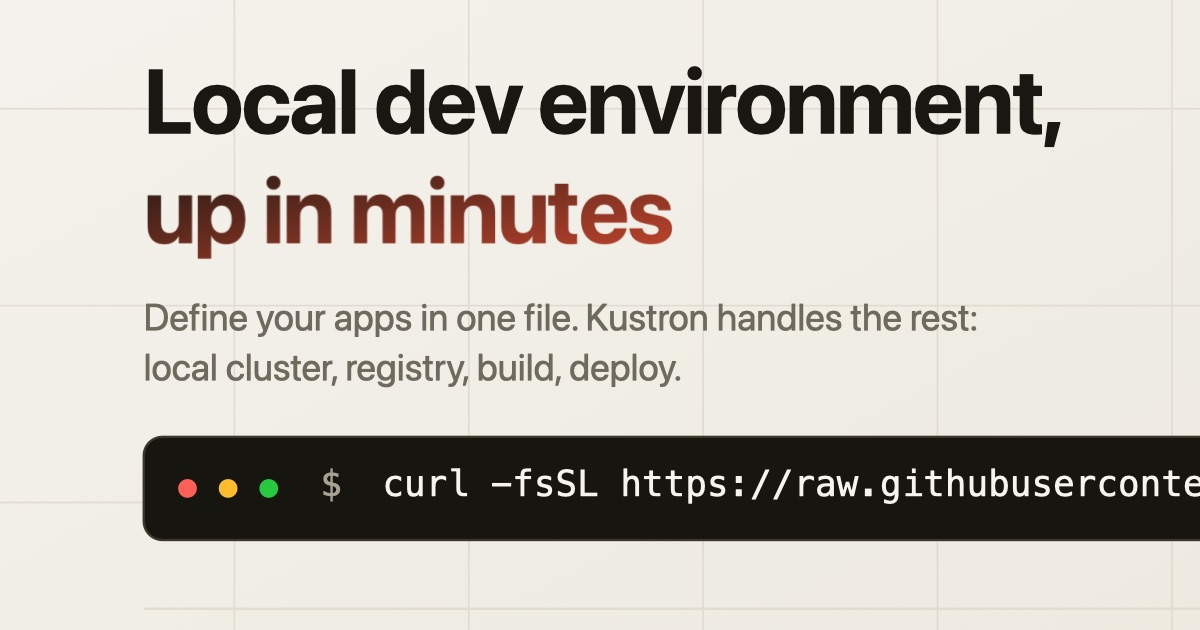
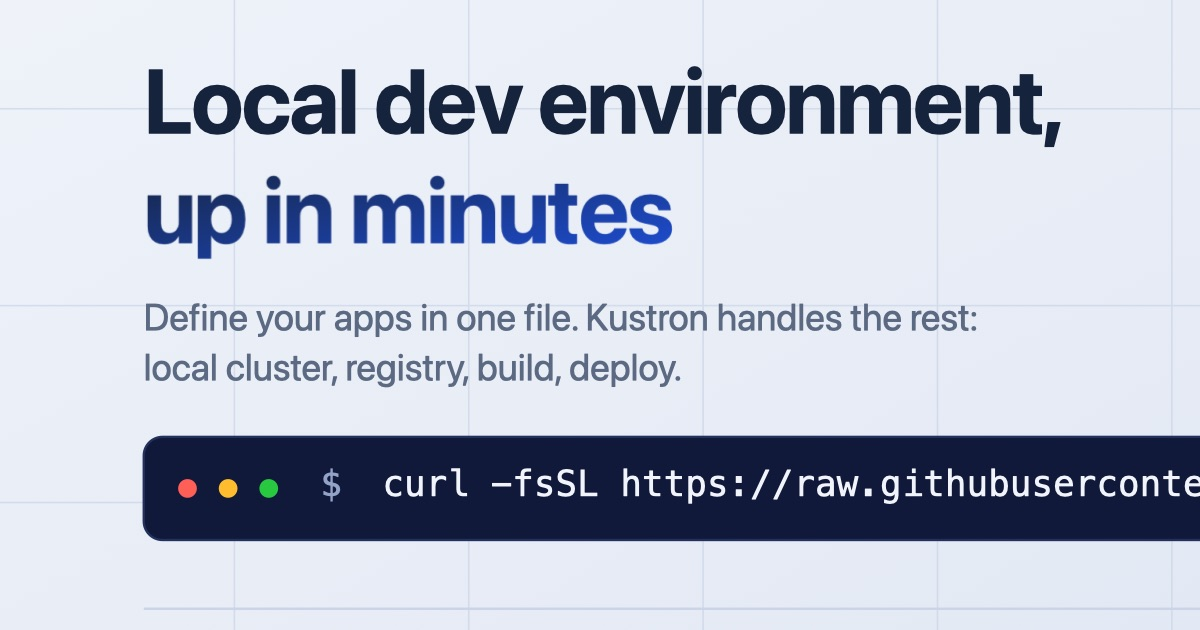
feat: blueprint-navy theme with grid texture

diff --git a/docs/index.html b/docs/index.html
@@ -19,7 +19,7 @@
   <link rel="canonical" href="https://itsmunim.github.io/kustron/">
   <meta name="description"
     content="Define your apps in one file. Kustron spins up a local Kubernetes cluster, builds, and deploys them. No Kubernetes knowledge required.">
-  <meta name="theme-color" content="#F6F4EF">
+  <meta name="theme-color" content="#F1F4FA">
 
   <!-- Open Graph (Facebook, LinkedIn, Discord, iMessage) -->
   <meta property="og:type" content="website">
@@ -81,15 +81,16 @@
     }
 
     :root {
-      --bg: #f6f4ef;
+      --bg: #f1f4fa;
       --surface: #ffffff;
-      --surface2: #ece9e0;
-      --border: #e0dcd0;
-      --text: #1a1712;
-      --muted: #6f6a5e;
-      --accent: #c7452e;
-      --accent-dim: rgba(199, 69, 46, .08);
+      --surface2: #e5eaf3;
+      --border: #c9d4e6;
+      --text: #16233c;
+      --muted: #5b6a82;
+      --accent: #1d4ed8;
+      --accent-dim: rgba(29, 78, 216, .08);
       --green: #2e7d4f;
+      --amber: #a97f1f;
       --radius: 10px;
     }
 
@@ -98,7 +99,11 @@
     }
 
     body {
-      background: var(--bg);
+      background-color: var(--bg);
+      background-image:
+        linear-gradient(to right, rgba(22, 35, 60, .028) 1px, transparent 1px),
+        linear-gradient(to bottom, rgba(22, 35, 60, .028) 1px, transparent 1px);
+      background-size: 28px 28px;
       color: var(--text);
       font-family: 'Inter', sans-serif;
       font-size: 16px;
@@ -120,7 +125,7 @@
       position: sticky;
       top: 0;
       z-index: 100;
-      background: rgba(246, 244, 239, .85);
+      background: rgba(241, 244, 250, .85);
       backdrop-filter: blur(12px);
       border-bottom: 1px solid var(--border);
       padding: 0 24px;
@@ -185,7 +190,7 @@
     }
 
     .btn-primary:hover {
-      background: #d95a40;
+      background: #1d4ed8;
       text-decoration: none;
     }
 
@@ -202,7 +207,7 @@
       align-items: center;
       gap: 6px;
       background: var(--accent-dim);
-      border: 1px solid rgba(199, 69, 46, .28);
+      border: 1px solid rgba(29, 78, 216, .28);
       border-radius: 100px;
       padding: 4px 12px;
       font-size: 13px;
@@ -216,7 +221,7 @@
       line-height: 1.1;
       letter-spacing: -2px;
       margin-bottom: 20px;
-      background: linear-gradient(135deg, #1a1712 30%, #c7452e);
+      background: linear-gradient(135deg, #16233c 30%, #1d4ed8);
       -webkit-background-clip: text;
       -webkit-text-fill-color: transparent;
       background-clip: text;
@@ -379,7 +384,7 @@
 
     /* ── YAML block ── */
     .yaml-window {
-      background: #0d1117;
+      background: #0e1728;
       border: 1px solid var(--border);
       border-radius: var(--radius);
       overflow: hidden;
@@ -487,7 +492,7 @@
       font-size: 11px;
       background: var(--accent-dim);
       color: var(--accent);
-      border: 1px solid rgba(199, 69, 46, .22);
+      border: 1px solid rgba(29, 78, 216, .22);
       border-radius: 4px;
       padding: 2px 7px;
       margin-top: 10px;
@@ -528,11 +533,11 @@
     }
 
     .cmd-code .arg {
-      color: #8a7448;
+      color: #5b6a82;
     }
 
     .cmd-code .flag {
-      color: #8f6d2a;
+      color: #a97f1f;
     }
 
     .cmd-desc {
@@ -577,9 +582,9 @@
     }
 
     .required {
-      background: rgba(199, 69, 46, .1);
+      background: rgba(29, 78, 216, .1);
       color: var(--accent);
-      border: 1px solid rgba(199, 69, 46, .28);
+      border: 1px solid rgba(29, 78, 216, .28);
     }
 
     .optional {
@@ -604,7 +609,7 @@
       align-items: flex-start;
       gap: 16px;
       background: var(--accent-dim);
-      border: 1px solid rgba(199, 69, 46, .22);
+      border: 1px solid rgba(29, 78, 216, .22);
       border-radius: var(--radius);
       padding: 16px 20px;
       margin-bottom: 16px;
@@ -749,7 +754,7 @@
       height: 32px;
       border-radius: 50%;
       background: var(--accent-dim);
-      border: 1px solid rgba(199, 69, 46, .25);
+      border: 1px solid rgba(29, 78, 216, .25);
       color: var(--accent);
       font-family: 'JetBrains Mono', monospace;
       font-size: 12px;

diff --git a/docs/features.html b/docs/features.html
@@ -19,7 +19,7 @@
   <link rel="canonical" href="https://itsmunim.github.io/kustron/features.html">
   <meta name="description"
     content="Every Kustron feature with example use cases, plus a full kustron-env.yaml showing them all working together.">
-  <meta name="theme-color" content="#F6F4EF">
+  <meta name="theme-color" content="#F1F4FA">
 
   <!-- Open Graph -->
   <meta property="og:type" content="website">
@@ -48,16 +48,16 @@
   <link href="https://fonts.googleapis.com/css2?family=Inter:wght@400;500;600;700&family=JetBrains+Mono:wght@400;500&display=swap" rel="stylesheet">
   <style>
     :root {
-      --bg: #f6f4ef;
+      --bg: #f1f4fa;
       --surface: #ffffff;
-      --surface2: #ece9e0;
-      --border: #e0dcd0;
-      --text: #1a1712;
-      --muted: #6f6a5e;
-      --accent: #c7452e;
-      --accent-dim: rgba(199, 69, 46, .08);
+      --surface2: #e5eaf3;
+      --border: #c9d4e6;
+      --text: #16233c;
+      --muted: #5b6a82;
+      --accent: #1d4ed8;
+      --accent-dim: rgba(29, 78, 216, .08);
       --green: #2e7d4f;
-      --radius: 10px;
+      --amber: #a97f1f;
     }
 
     html {
@@ -65,7 +65,11 @@
     }
 
     body {
-      background: var(--bg);
+      background-color: var(--bg);
+      background-image:
+        linear-gradient(to right, rgba(22, 35, 60, .028) 1px, transparent 1px),
+        linear-gradient(to bottom, rgba(22, 35, 60, .028) 1px, transparent 1px);
+      background-size: 28px 28px;
       color: var(--text);
       font-family: 'Inter', sans-serif;
       font-size: 16px;
@@ -88,7 +92,7 @@
       position: sticky;
       top: 0;
       z-index: 100;
-      background: rgba(246, 244, 239, .85);
+      background: rgba(241, 244, 250, .85);
       backdrop-filter: blur(12px);
       border-bottom: 1px solid var(--border);
       padding: 0 24px;
@@ -239,15 +243,15 @@
       font-size: 12px;
       color: var(--text);
       background: var(--accent-dim);
-      border: 1px solid rgba(199, 69, 46, .22);
+      border: 1px solid rgba(29, 78, 216, .22);
       border-radius: 5px;
       padding: 2px 8px;
       display: inline-block;
     }
 
     .yaml-window {
-      background: #17150f;
-      border: 1px solid #3a362c;
+      background: #10193a;
+      border: 1px solid #22315c;
       border-radius: var(--radius);
       overflow: hidden;
       font-family: 'JetBrains Mono', monospace;
@@ -258,8 +262,8 @@
       align-items: center;
       gap: 6px;
       padding: 10px 14px;
-      background: #201d15;
-      border-bottom: 1px solid #3a362c;
+      background: #0d1529;
+      border-bottom: 1px solid #22315c;
     }
 
     .dot {
@@ -274,7 +278,7 @@
     .yaml-filename {
       margin-left: 8px;
       font-size: 12px;
-      color: #a8a294;
+      color: #93a3c8;
     }
 
     .yaml-window pre {
@@ -287,11 +291,11 @@
       font-family: 'JetBrains Mono', monospace;
       font-size: 13px;
       line-height: 1.6;
-      color: #e8e4d8;
+      color: #e3e9f6;
     }
 
     .yaml-window code .c {
-      color: #7d786a;
+      color: #5b6a82;
     }
 
     /* Full example section */
@@ -335,7 +339,7 @@
     }
 
     .btn-primary:hover {
-      background: #d95a40;
+      background: #1d4ed8;
       text-decoration: none;
     }
 
